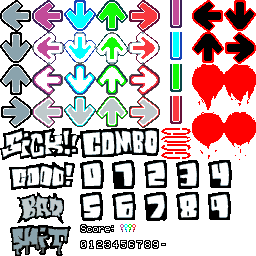
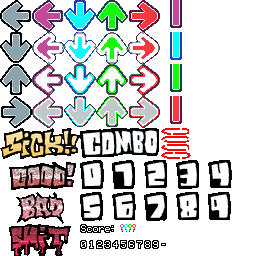
forgot the hud also removed seemless loading at the request of Cucky

Changed region(s): [[0.75, 0.0, 1.0, 0.5938], [0.0, 0.5, 0.3125, 1.0]]

diff --git a/src/stagedef_disc1.h b/src/stagedef_disc1.h
@@ -12,7 +12,7 @@
 		1, 1,
 		XA_Bopeebo, 0,
 		
-		StageId_1_2, STAGE_LOAD_FLAG | STAGE_LOAD_STAGE | STAGE_LOAD_OPPONENT
+		StageId_1_2, 0,
 	},
 	{ //StageId_1_2 (Endless)
 		//Characters
@@ -28,7 +28,7 @@
 		1, 2,
 		XA_Fresh, 2,
 		
-		StageId_1_3, STAGE_LOAD_FLAG | STAGE_LOAD_STAGE | STAGE_LOAD_OPPONENT
+		StageId_1_3, 0,
 	},
 	{ //StageId_1_3 (Execution)
 		//Characters
